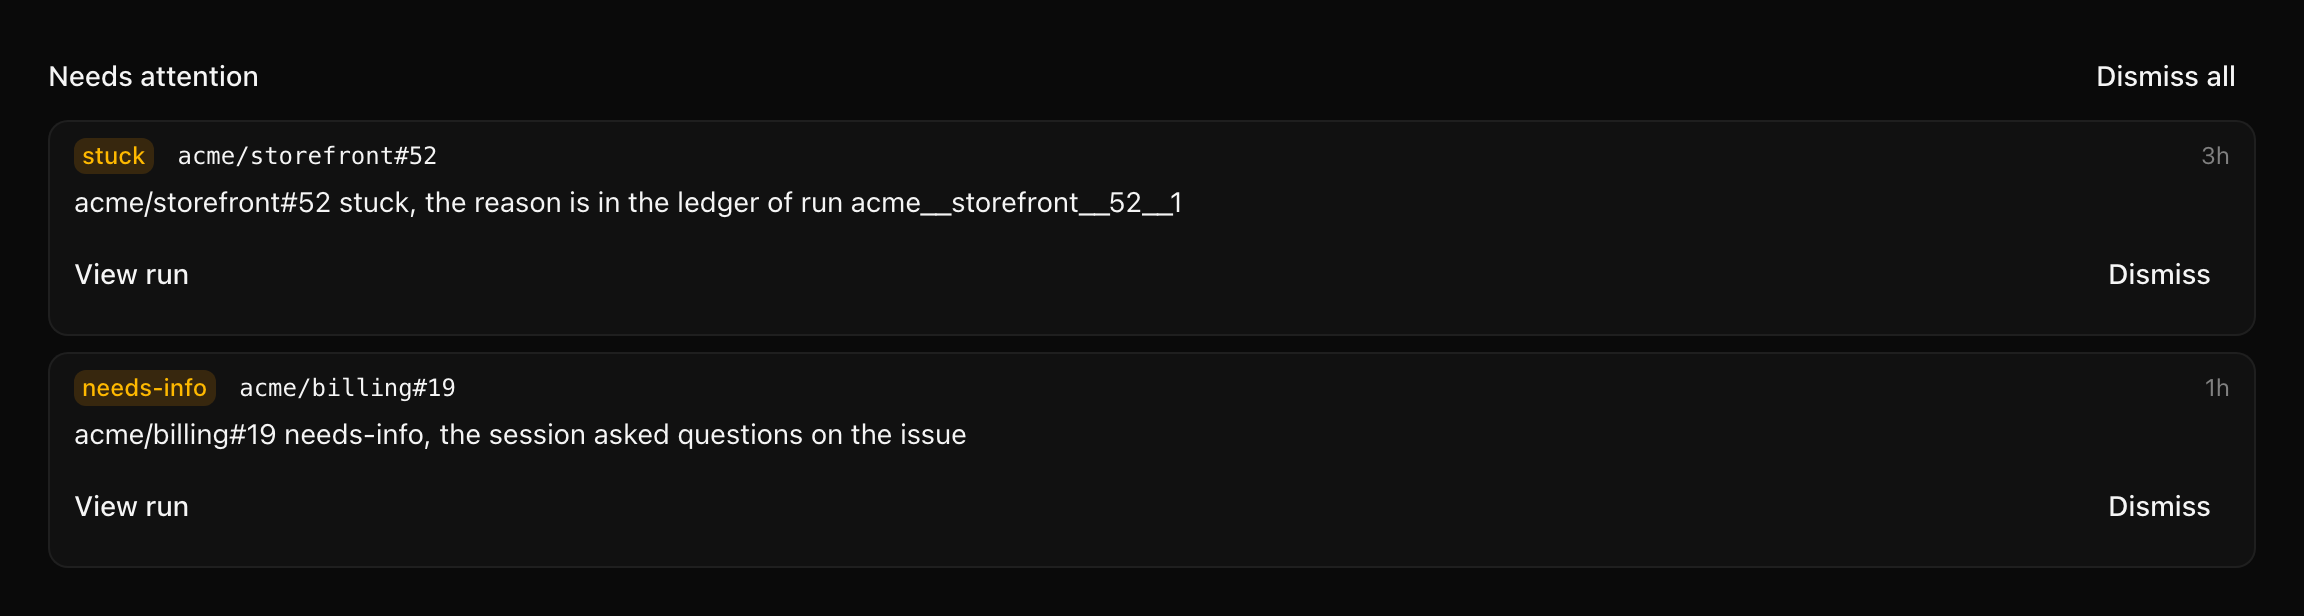
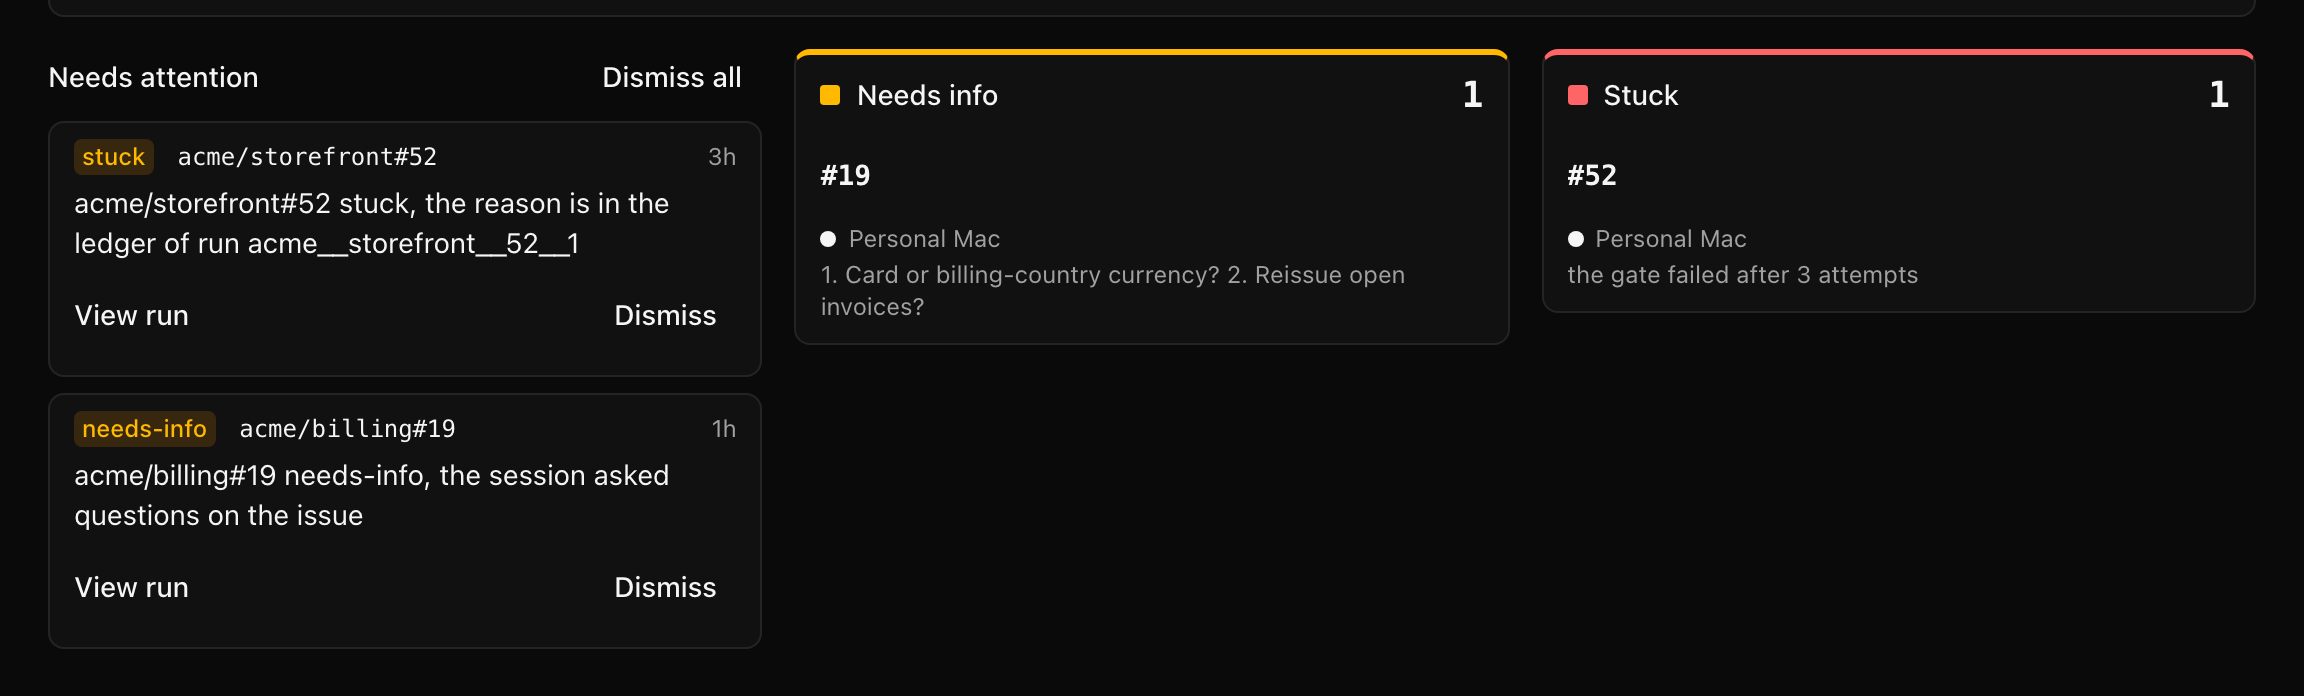
docs: Watch runs guide shows belt-era Factory page and Needs attention captures
Issue: #246

diff --git a/factory/site/guide/watching-runs.md b/factory/site/guide/watching-runs.md
@@ -6,7 +6,8 @@ The pages work in a phone's browser too, paired over your tailnet as described i
 
 ## The Factory page
 
-<!-- factory-page-{light,dark}.png predate the belt: retake them (factory/site/README.md), then show them here. -->
+<img class="screenshot light-only" src="/screenshots/factory-page-light.png" alt="The Factory page: the belt with one run each at Claimed, Building, Gate and PR open and none done today, the Claimed post open on its run, then the Needs attention, Needs info and Stuck bins, and the runs table with every run's state, step, age and pull request" />
+<img class="screenshot dark-only" src="/screenshots/factory-page-dark.png" alt="The Factory page: the belt with one run each at Claimed, Building, Gate and PR open and none done today, the Claimed post open on its run, then the Needs attention, Needs info and Stuck bins, and the runs table with every run's state, step, age and pull request" />
 
 Use it to see what the factory is doing now. The belt at the top has five posts, one per station a run passes: Claimed, Building, Gate, PR open and Done. Each unfinished run is a tile under its post, showing its issue number and how long it has been there; click a tile to open the run. Click a post to open a table of its runs under the rail, with each run's title, step and pull request and a Stop button. Done counts the runs whose pull request was merged or closed today. The belt reads status every 5 seconds while the page is open.
 
@@ -27,7 +28,8 @@ A run in `factory:building` can be stopped from here. See [Stopping a run by han
 
 ## Needs attention
 
-<!-- needs-attention-{light,dark}.png predate the belt: retake them, then show them here. -->
+<img class="screenshot light-only" src="/screenshots/needs-attention-light.png" alt="The bins under the belt: Needs attention with a stuck item and a needs-info item, each with View run and Dismiss, beside the Needs info bin with the run's questions and the Stuck bin with the reason it stopped" />
+<img class="screenshot dark-only" src="/screenshots/needs-attention-dark.png" alt="The bins under the belt: Needs attention with a stuck item and a needs-info item, each with View run and Dismiss, beside the Needs info bin with the run's questions and the Stuck bin with the reason it stopped" />
 
 Under the belt, the Factory page lists what needs a person in three bins: Needs attention, Needs info and Stuck. Needs info and Stuck list each run's issue with the questions it asked or the reason it stopped. The sidebar's Factory item shows how many items need attention. An item is raised when:
 
